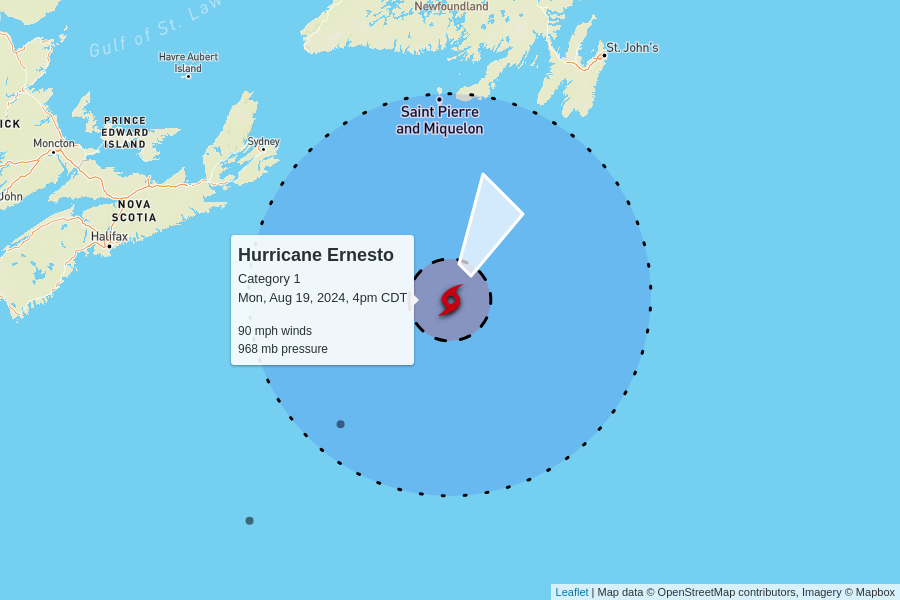
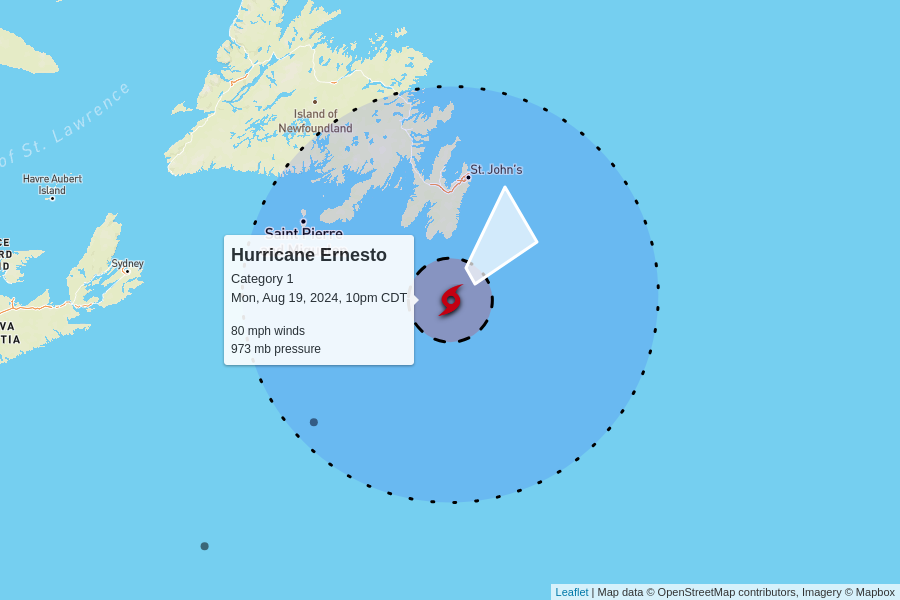
automatic update

diff --git a/docs/index.html b/docs/index.html
@@ -102,7 +102,7 @@
         <td colspan="6" class="storm category-1" >
           <h2>
             Hurricane Ernesto - Category 1
-            <p class="updated">last updated <span data-time>2024-08-19T21:00:00.000Z</span></p>
+            <p class="updated">last updated <span data-time>2024-08-20T03:00:00.000Z</span></p>
           </h2>
         </td>
       </tr>
@@ -117,12 +117,12 @@
       </tr>
       <tr>
         <td class="spacer"></td>
-        <td>90 mph<br>0 mph since last update</td>
-        <td>968 mb<br>0 mb since last update</td>
+        <td>80 mph<br>-10 mph since last update</td>
+        <td>973 mb<br>+5 mb since last update</td>
         <td>
-          26 mph to the northeast
+          35 mph to the northeast
           <br/>
-          <span style="display: inline-block; font-size: 1.5em; transform: rotate(35deg);">↑</span>
+          <span style="display: inline-block; font-size: 1.5em; transform: rotate(50deg);">↑</span>
         </td>
         <td><a href="https://raw.githubusercontent.com/mgwalker/atlantic-hurricanes/main/data/csv/AL052024.csv">AL052024.csv</a></td>
         <td><a href="https://www.nhc.noaa.gov/archive/2024/ERNESTO.shtml?">NHC advisories</a></td>
